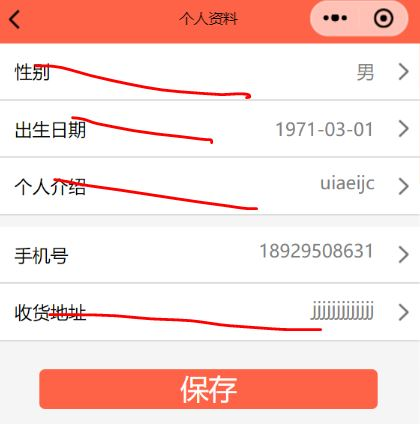
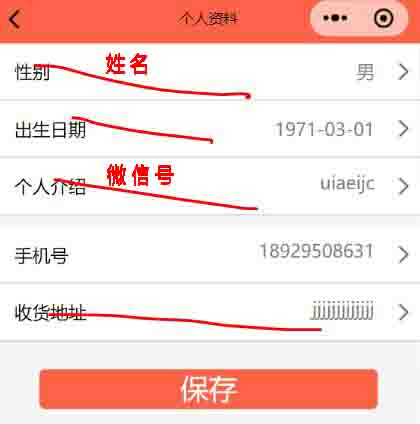
update README

diff --git a/README/README.md b/README/README.md
@@ -28,3 +28,126 @@
    ![create collection](create-collection.png)
    
 **注意**如果控制台提示"wx-server-sdk"找不到，请cd到cloudfunctions，分别cd到login和update文件夹下，查看有无"node_modules"文件夹，如果有直接跳下一步上传，否则输入```npm uninstall --save wx-server-sdk@latest```(需要安装node.js和npm，请自行百度)，然后在开发者工具两个文件夹右键-"上传所有文件"。
+
+# 开发指引
+
+## 开发计划
+
+### 第一阶段
+
+- 修改数据库（见下）
+- 修改[修改计划](https://github.com/anxunsi/TIC-Library/tree/master/modify-plan/README.md)中的1~10点
+    - 修改首页、用户信息修改页
+    - 修改书籍详情页
+    - 修改用户中心、底栏
+
+## 数据库对象
+
+在**云开发控制台**中可以管理数据库。数据库顾名思义就是存一条条数据的。在小程序中，一个**集合**就是一个数据库。集合中的记录就是存储的数据。
+
+    每条记录都有一个 _id 字段用以唯一标志一条记录、一个 _openid 字段用以标志记录的创建者，即小程序的用户。需要特别注意的是，在管理端（控制台和云函数）中创建的不会有 _openid 字段，因为这是属于管理员创建的记录。开发者可以自定义 _id，但不可自定义和修改 _openid 。_openid 是在文档创建时由系统根据小程序用户默认创建的，开发者可使用其来标识和定位文档。
+
+本小程序集合描述如下（不包括_id和_openid）：
+
+### userinfo
+
+存储用户信息
+
+|address|birthday|gender|introduce|phone|
+|--|--|--|--|--|
+|地址|生日|性别|简介|电话|
+
+### publish
+
+存储发布书籍的信息
+
+|bookInfo|bookNumber|bookSale|date|imageID|saler|
+|--|--|--|--|--|--|
+|bookInfo对象（见下）|书籍数量|卖出数量|发布日期|卖家上传图片链接|卖家昵称|
+
+```js
+// 从豆瓣图书api获取的书籍信息
+bookInfo = {
+    alt: 图书链接,
+    alt_title: 链接名, // 同原作名
+    author: 作者, // 数组，可能有多个作者
+    author_intro: 作者简介,
+    binding: 装帧,
+    catalog: 目录,
+    id: 图书在豆瓣的id,
+    image: 显示的图片, // 中等大小
+    images: {
+        // 图书不同压缩质量的图片链接
+        large: 大图,
+        medium: 中等大小图片,
+        small: 小图
+    },
+    isbn10: ISBN-10格式,
+    isbn13: ISBN-13格式,
+    origin_title: 原作名,
+    pages: 页数,
+    price: 价格,
+    pubdate:出版时间,
+    publisher: 出版社,
+    rating: {
+        average: 平均分,
+        max: 最高分,
+        min: 最低分,
+        numRaters: 评分人数
+    },
+    subtitle: 副标题,
+    summary: 内容简介,
+    tags: 标签, // 数组
+    title: 书名,
+    translator: 翻译, // 数组
+    url: 访问api的url
+}
+```
+
+### sell
+
+存储卖出信息
+
+|image|saleDate|saleNumber|salePrice|saler|title|
+|--|--|--|--|--|--|
+|封面图片|出售日期|出售数量|价格|卖家昵称|书名|
+
+### buy
+
+存储买入信息
+
+|image|buyDate|buyNumber|buyPrice|saler|title|
+|--|--|--|--|--|--|
+|封面图片|买入日期|买入数量|价格|买家昵称|书名|
+
+-----
+
+### 修改方案
+
+- 删除sell和buy
+- userInfo修改为：
+
+    |~~address~~|~~birthday~~|~~gender~~|~~introduce~~|phone|***name***|***wechat***|
+    |--|--|--|--|--|--|--|
+    |~~地址~~|~~生日~~|~~性别~~|~~简介~~|电话|***名称***|***微信***|
+
+- publish修改为：
+
+    |bookInfo|bookNumber|~~bookSale~~ ***bookAvailable***|date|imageID|~~saler~~|
+    |--|--|--|--|--|--|
+    |bookInfo对象|书籍数量|***可借数量***|发布日期|附加图片链接|~~卖家昵称~~|
+
+- 增加lend中间表记录借阅信息：
+
+    |publish_id|borrower_id|lendDate|expireDate|returned|
+    |--|--|--|--|--|
+    |书籍id|借阅者id|借阅日期|借阅到期日期|是否已还|
+
+## 借还书流程
+
+1. 点击进入书籍详情页
+2. 点击“立即借阅”：
+    - 增加一条lend数据
+    - 该publish数据的bookAvailable--
+3. 在书籍详情页点击“立即还书”：
+    - 将该lend数据的returned改为true

diff --git a/modify-plan/README.md b/modify-plan/README.md
@@ -10,24 +10,24 @@
 
 ![choose-num](choose-num.JPG)
 
-4. 在“用户中心”中，“我卖出的”删除，“我买到的”改为“我的借阅”；
-5. 点击图书进入书籍详情页，详情页增加“修改”、“删除”，如果是书的主人可见修改删除按钮，在“我发布的”、“我的借阅”中点击书籍也可以跳到详情页；
+4. 在“用户中心”中，“我卖出的”删除，“我买到的”改为“借阅书籍”，增加“借阅历史”；
+5. 点击图书进入书籍详情页，详情页增加“修改”、“删除”，如果是书的主人可见修改删除按钮，如果是用户借阅书籍可见还书按钮，在“我发布的”、“借阅书籍”、“借阅历史”中点击书籍也可以跳到详情页；
 
 ![user-center](user-center.JPG)
 
-6. 发布书籍按钮可以放到“用户中心”里；
+7. 发布书籍按钮可以放到“用户中心”里；
 
 ![tab-bar](tab-bar.JPG)
 
 
-1. “发布书籍”页，扫码获取信息后信息改为可编辑，增加“标签”；
+8. “发布书籍”页，扫码获取信息后信息改为可编辑，增加“标签”；
 
 ![publish-detail](publish-detail.JPG)
 
-8. “个人资料”页只保留手机号，增加微信号、姓名（默认为微信nickname）
+9. “个人资料”页只保留手机号，增加微信号、姓名（默认为微信nickname）
 
 ![user-info](user-info.JPG)
 
-9.  （可选）对非我社团的用户，不显示书籍。方法1：设置社团密码，输入才能使用小程序；方法2：个人信息处增加校园卡号，由后台审核后手动赋予权限（用户增加一个权限属性）。
+10.  （可选）对非我社团的用户，不显示书籍。方法1：设置社团密码，输入才能使用小程序；方法2：个人信息处增加校园卡号，由后台审核后手动赋予权限（用户增加一个权限属性）。
 
 ----------请大家补充修改----------

diff --git a/bug-list/README.md b/bug-list/README.md
@@ -4,8 +4,12 @@
 
 例子：
 
-- 2019.01.15 图片无法加载
+- 2019.01.15 首页图片无法加载
 
-修改完成之后划掉，只需加波浪线：
+修改完成之后划掉，只需加波浪线；并且添加修改时间：
 
-- ~~2019.01.15 图片无法加载~~
+- ~~2019.01.15 首页图片无法加载~~ 2019.01.16
+
+-----
+
+- 2019.02.08 **我的发布**、**我卖出的**、**我买到的**三个页面从数据库中读取数据（getDataList函数）使用的是nickname获取的，但nickname可能不唯一，应用_id查询。
